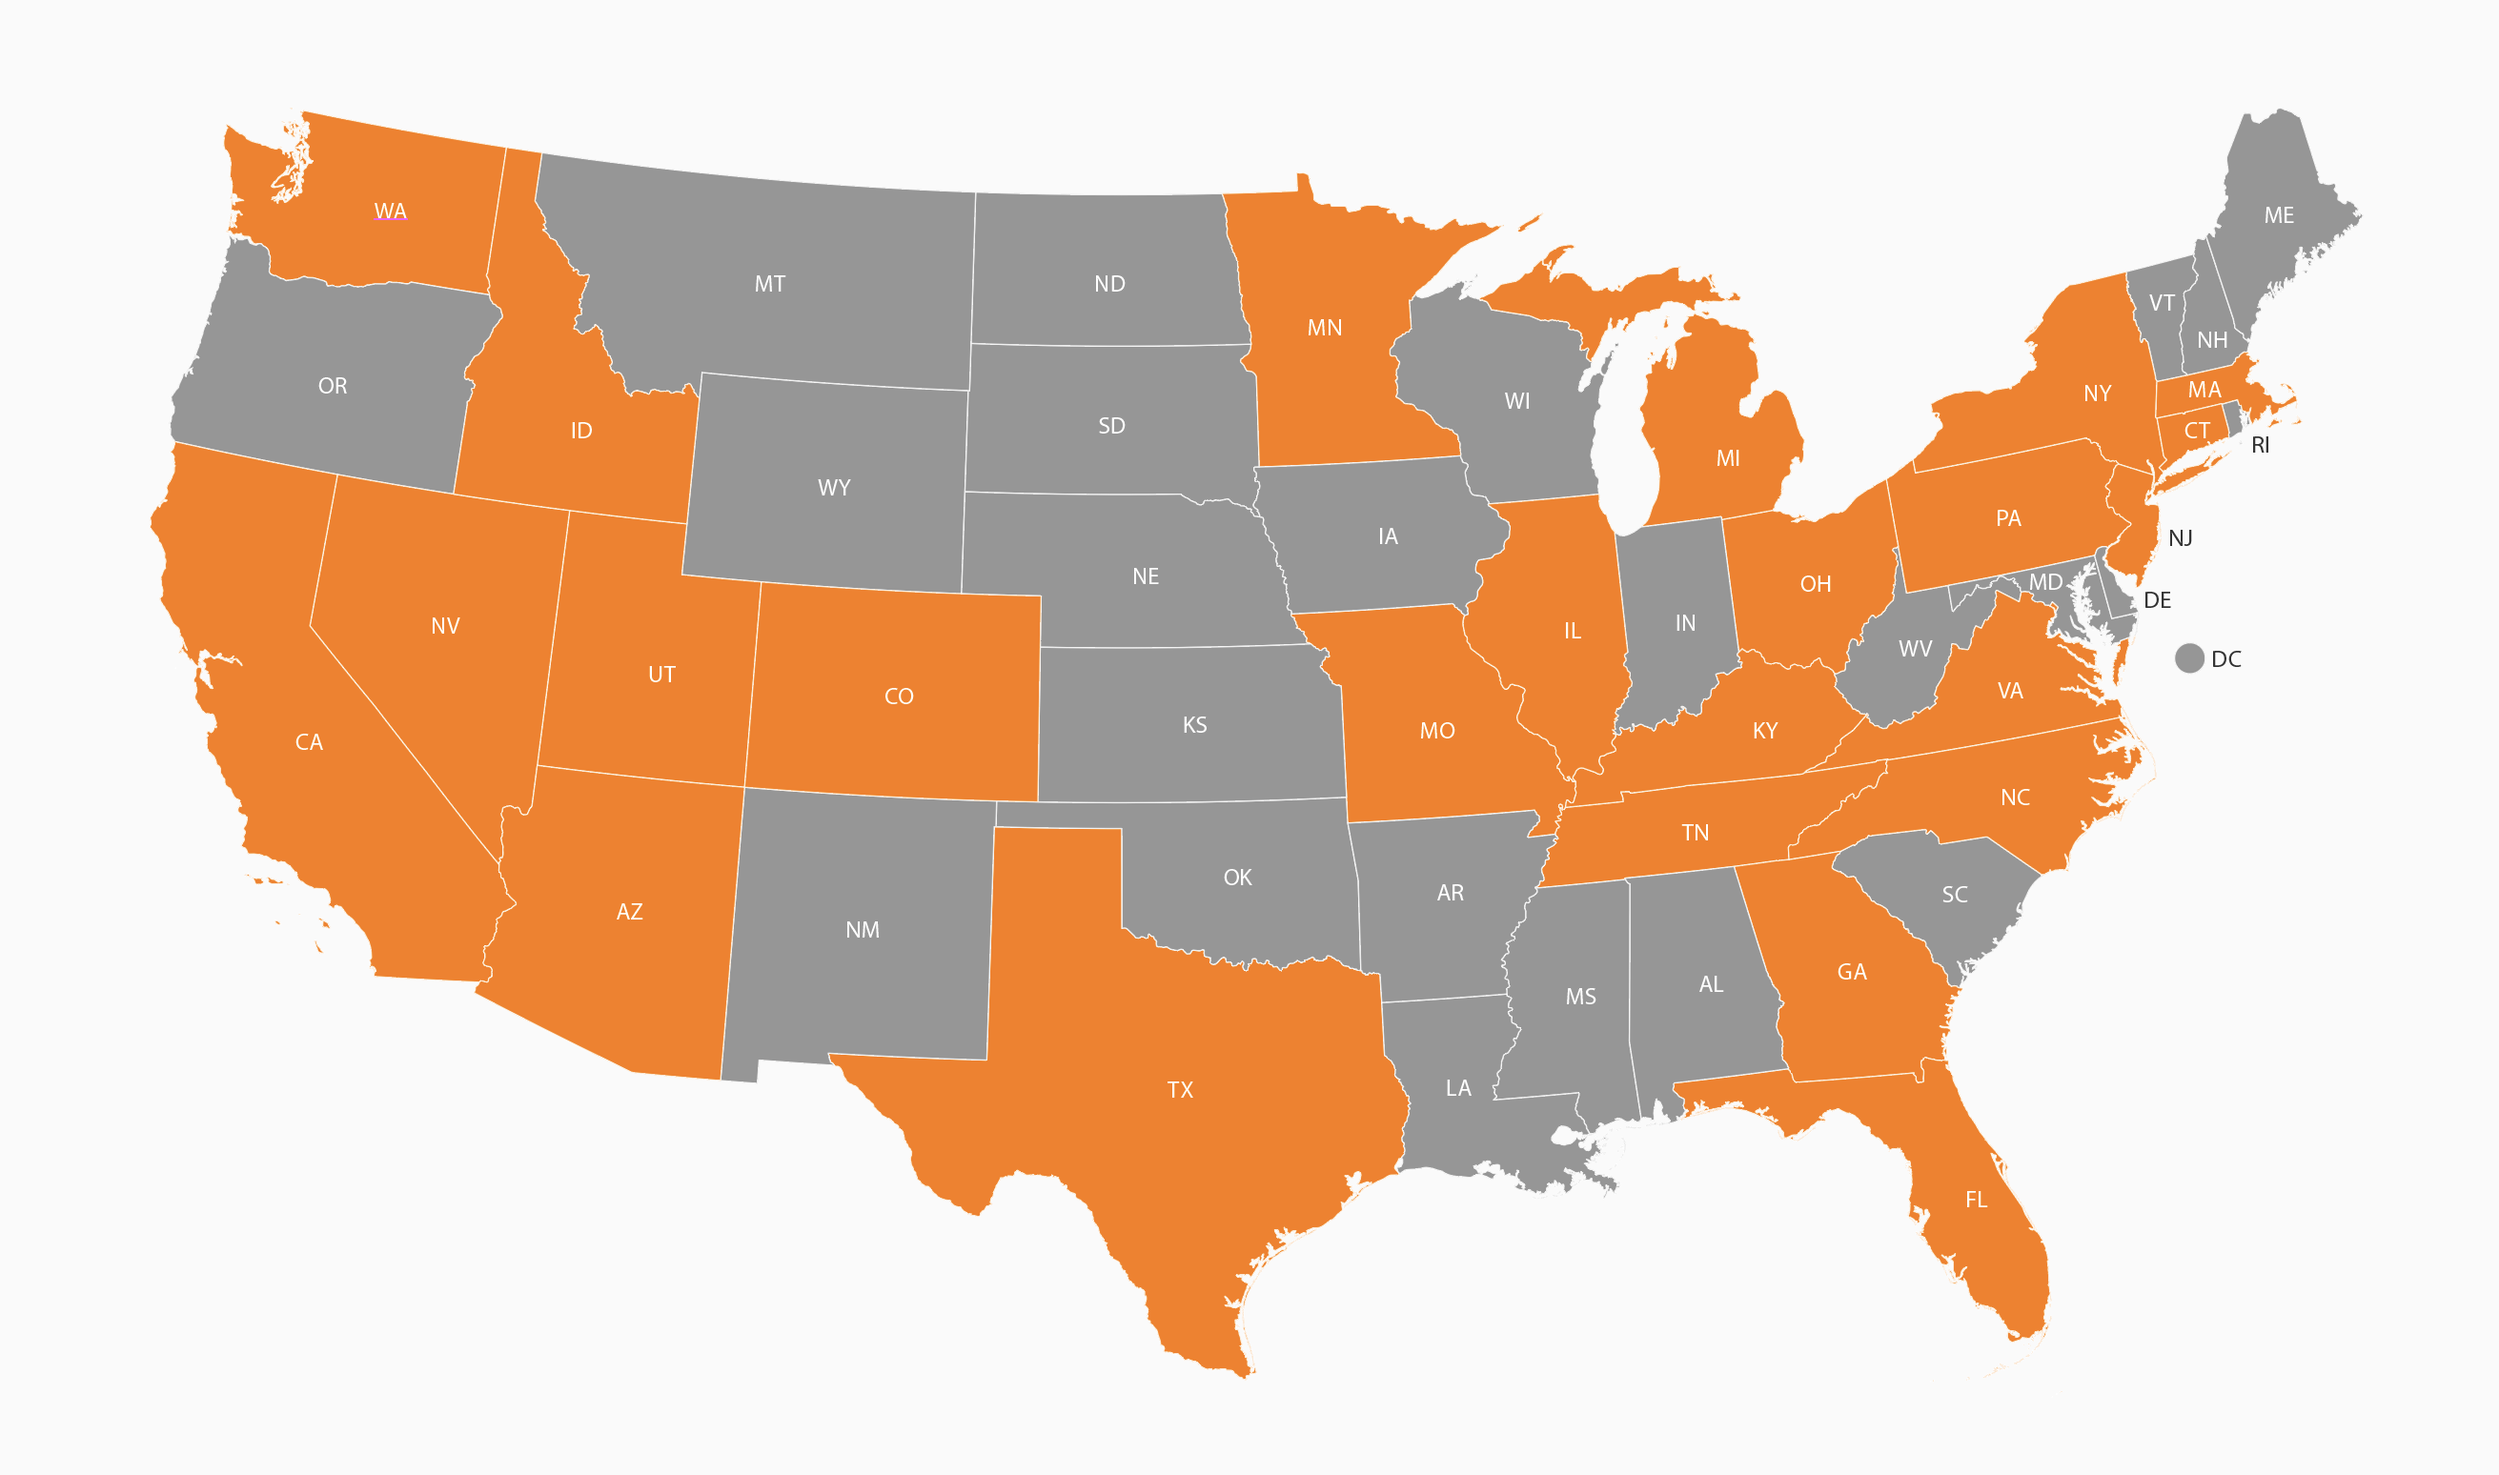
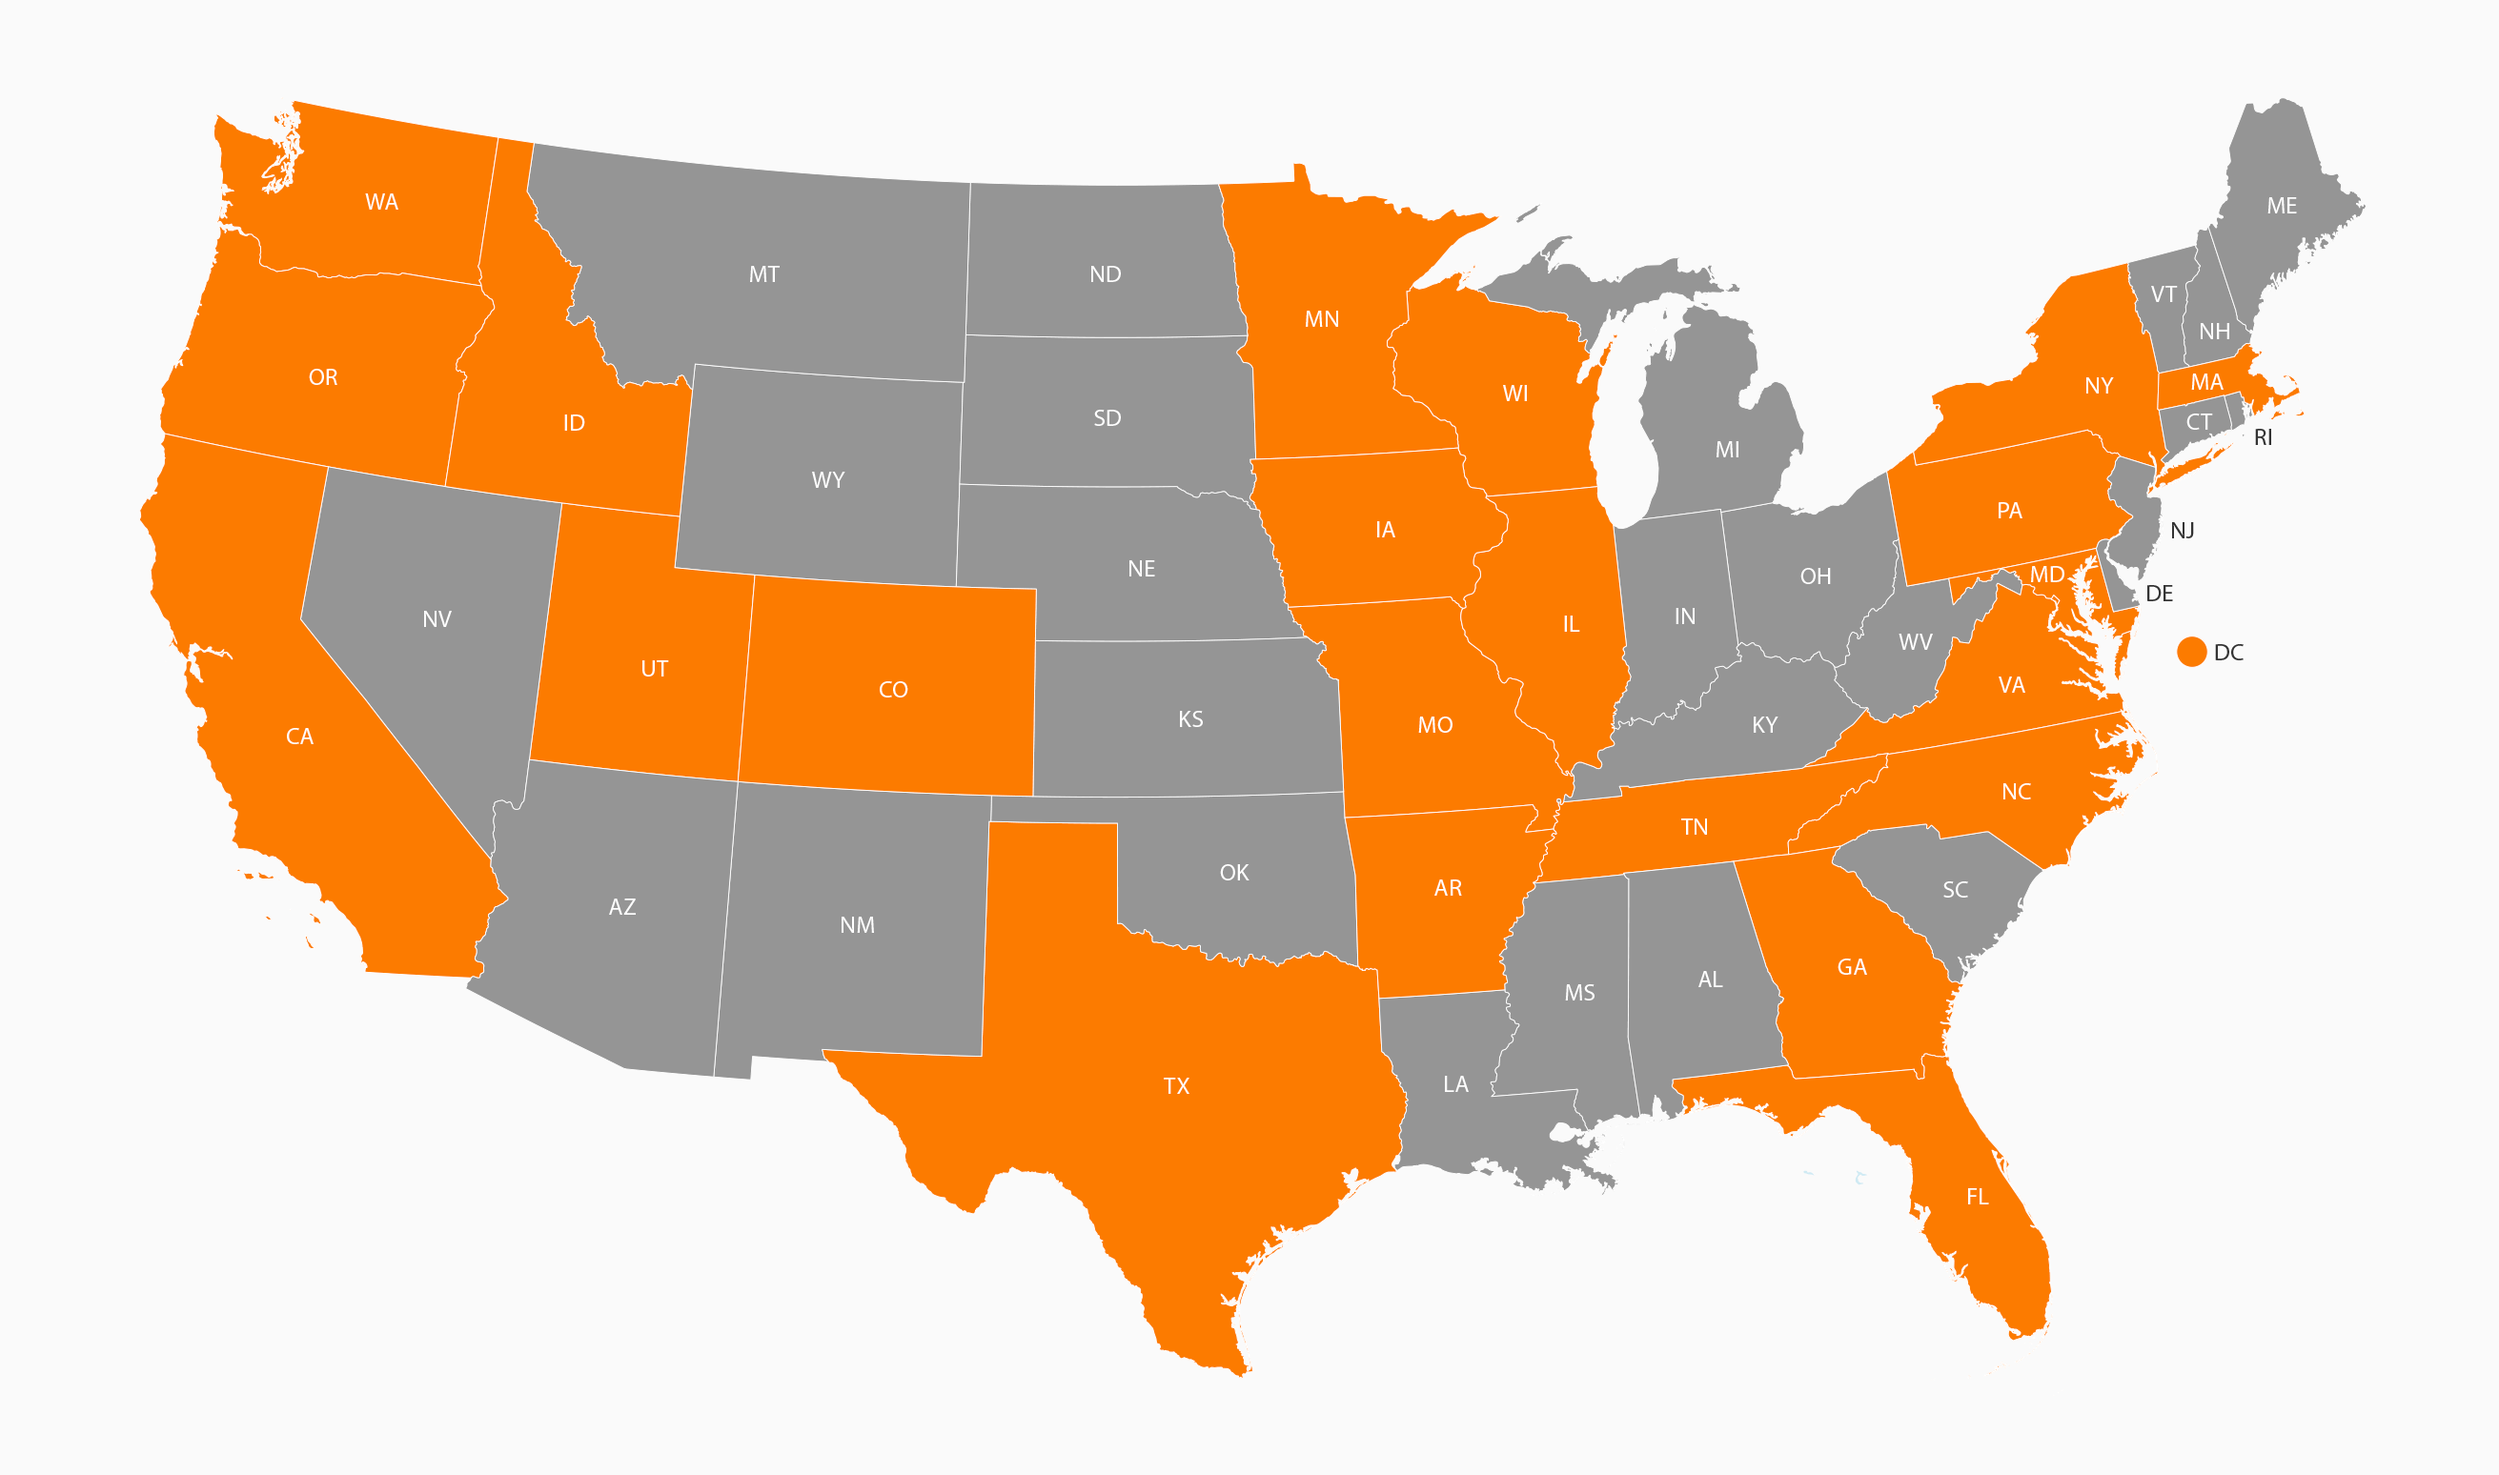
Update attendee stats

diff --git a/workshops/whyattend.php b/workshops/whyattend.php
@@ -34,7 +34,7 @@ require($_SERVER['DOCUMENT_ROOT'] . '/includes/header.php');
 				</li>
 				<li>
 					<img src="/images/conf-scene007.jpg" alt="">
-					<h4>Practicing instructors</h4>
+					<h4>Professional instructors</h4>
 					<p>The best teachers are those that lead by example. Most Front instructors are employed with leading technology companies.</p>
 				</li>
 				<li>
@@ -50,8 +50,8 @@ require($_SERVER['DOCUMENT_ROOT'] . '/includes/header.php');
 			</ul>
 		</section>
 		<section class="attendant-charts">
-			<h2>2018 workshop attendees</h2>
-			<p class="about-attendant-charts">In 2018, product design teams gathered in Utah from 5 countries and 25 states across the US for our workshop series. While focused specifically on UX, product management, research, and leadership, anyone involved in product discovery and delivery is encouraged to attend and will leave with a wealth of insights and skills. The workshops cover the range between basic and advanced topics, providing valuable training to both students and seasoned professionals.</p>
+			<h2>2019 attendees</h2>
+			<p class="about-attendant-charts">In 2019, product design teams gathered in Utah from 4 countries and 23 states across the US for our workshop series. While focused specifically on UX, product management, research, and leadership, anyone involved in product discovery and delivery is encouraged to attend and will leave with a wealth of insights and skills. The workshops cover the range between basic and advanced topics, providing valuable training to both students and seasoned professionals.</p>
 			<div class="chart ring-chart">
 				<h4>Attendee by job title</h4>
 				<img style="max-width: 80%" src="/images/stats_workshops_attendeesbytitle.png" alt="">
@@ -60,7 +60,7 @@ require($_SERVER['DOCUMENT_ROOT'] . '/includes/header.php');
 				<h4>Attendee by location</h4>
 				<img style="max-width: 80%" src="/images/stats_workshops_attendeesbylocation.png" alt="">
 			</div>
-			<p class="footnote">Including Canada, Great Britain, Italy, Mexico, Guam!</p>
+			<p class="footnote">Including Canada, Mexico, and Germany!</p>
 		</section>
 		<section class="join-us">
 			<h2>Join us at the Front!</h2>
